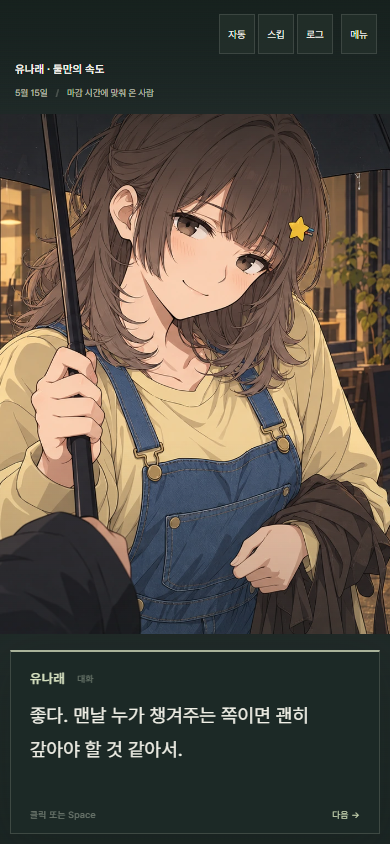
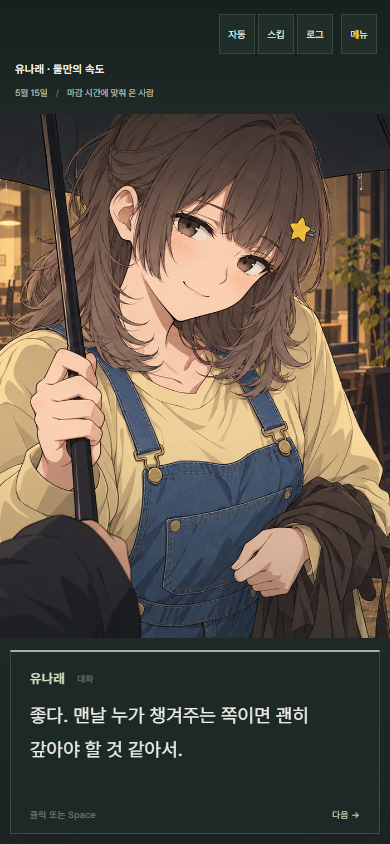
fix: keep mobile cutscene and dialogue in separate grid rows

diff --git a/src/components/Game.tsx b/src/components/Game.tsx
@@ -20,8 +20,6 @@ export function Game() {
   const stage = scene ? presentation(scene, path) : null
   const [menu, setMenu] = useState<Menu>('none')
   const [returnToTitle, setReturnToTitle] = useState(false)
-  const stageRef = useRef<HTMLElement>(null)
-  const dialogueRef = useRef<HTMLButtonElement>(null)
   const isChoice = node?.type === 'choice'
   const tw = useTypewriter(node && node.type !== 'choice' ? node.text : '', `${sceneId}:${nodeIndex}`, settings.textSpeed)
   const seenKey = `${STORY_VERSION}:${sceneId}:${nodeIndex}`
@@ -36,15 +34,6 @@ export function Game() {
     if (ended || menu !== 'none' || returnToTitle || isChoice) return
     if (tw.done) game.advance(); else tw.finish()
   }
-  useEffect(() => {
-    const box=dialogueRef.current
-    if(!box)return
-    const measure=()=>stageRef.current?.style.setProperty('--dialogue-height',`${box.offsetHeight}px`)
-    measure()
-    const observer=new ResizeObserver(measure)
-    observer.observe(box)
-    return ()=>observer.disconnect()
-  },[isChoice,uiHidden,settings.fontSize])
   useEffect(() => {
     wasSeen.current = useGame.getState().seen.has(seenKey)
     if (!node || node.type === 'choice') return
@@ -107,7 +96,7 @@ export function Game() {
   const focusChar = speaker && speaker !== 'protagonist' ? speaker : null
   const sprites = Object.entries(stage?.sprites ?? {})
   const choicePrompt = [...path].reverse().map(i => scene.nodes[i]).find(n => n.type === 'narration')
-  return <main ref={stageRef} className={`game-stage ${cg ? 'has-cg' : ''}`} data-time={bgTime(stage?.mood)} data-hidden={uiHidden} style={{'--cg-focus':cg?.mobile_focus??'50% 50%'} as React.CSSProperties}>
+  return <main className={`game-stage ${cg ? 'has-cg' : ''}`} data-time={bgTime(stage?.mood)} data-hidden={uiHidden} style={{'--cg-focus':cg?.mobile_focus??'50% 50%'} as React.CSSProperties}>
     <SmartImage key={cg?.file ?? `${background}:${bgTime(stage?.mood)}`}
       src={assetUrl(cg ? ART_ROOT + cg.file : backgroundAsset(background, stage?.mood))}
       fallbackSrc={assetUrl('assets/art-v2/campus.webp')} alt={cg?.title ?? '캠퍼스 풍경'} className={`stage-background ${cg ? 'cg-art' : ''}`} />
@@ -125,7 +114,7 @@ export function Game() {
           <button onClick={() => setMenu('main')} aria-label="게임 메뉴 열기">메뉴 <span aria-hidden="true">☰</span></button>
         </nav>
       </header>
-      {!isChoice ? <button ref={dialogueRef} className={`dialogue ${speaker ? '' : 'narration'}`} onClick={advance} aria-label="대사를 마치거나 다음으로 진행">
+      {!isChoice ? <button className={`dialogue ${speaker ? '' : 'narration'}`} onClick={advance} aria-label="대사를 마치거나 다음으로 진행">
         <span className="speaker-name">{speakerName || '과방 너머 봄'}<span>{speakerName ? '대화' : '이야기'}</span></span>
         <span className="dialogue-text" style={{ fontSize: `${settings.fontSize}px` }}>{tw.shown}</span>
         <span className="dialogue-footer"><span>{tw.done ? '클릭 또는 Space' : '클릭하면 전체 보기'}</span><span aria-hidden="true">{tw.done ? '다음 →' : '· · ·'}</span></span>

diff --git a/src/index.css b/src/index.css
@@ -52,8 +52,11 @@ button { touch-action:manipulation; }
 .game-stage { position:relative; isolation:isolate; width:100%; height:100%; overflow:hidden; background:#242e2c; color:#f4f3eb; }
 .stage-background { position:absolute; inset:0; width:100%; height:100%; object-fit:cover; animation:fade-in .45s ease-out; }
 .stage-background.cg-art { object-fit:contain; background:#222b28; }
-.has-cg .stage-background { top:80px; height:calc(100% - var(--dialogue-height,210px) - 115px); }
-.has-cg[data-hidden=true] .stage-background { top:0; height:100%; }
+.has-cg { display:grid; grid-template-columns:minmax(0,1fr); grid-template-rows:80px minmax(0,1fr) auto; }
+.has-cg .stage-background { position:relative; inset:auto; grid-row:2; min-height:0; min-width:0; width:100%; height:100%; }
+.has-cg .dialogue { position:relative; grid-row:3; left:auto; right:auto; bottom:auto; margin:12px 6% 24px; }
+.has-cg[data-hidden=true] { display:block; }
+.has-cg[data-hidden=true] .stage-background.cg-art { position:absolute; inset:0; height:100%; object-fit:contain; object-position:center; }
 .game-stage[data-time=evening]:not(.has-cg) .stage-background { filter:sepia(.13) saturate(.82); }
 .stage-shade { position:absolute; inset:0; background:linear-gradient(180deg,#111b1a91 0%,transparent 24%,transparent 52%,#111b1a80 100%); pointer-events:none; z-index:1; }
 .stage-character { position:absolute; z-index:2; height:85%; width:auto; bottom:2%; pointer-events:none; transition:filter .22s; filter:drop-shadow(0 6px 8px #10181820); }
@@ -206,8 +209,9 @@ button { touch-action:manipulation; }
  .gallery-grid { gap:20px; }
 }
 @media(max-width:480px) {
- .has-cg .stage-background.cg-art { top:114px; height:calc(100% - var(--dialogue-height,210px) - 140px); object-fit:cover; object-position:var(--cg-focus,50% 50%); }
- .has-cg[data-hidden=true] .stage-background.cg-art { top:0; height:100%; object-fit:contain; object-position:center; }
+ .has-cg { grid-template-rows:114px minmax(0,1fr) auto; }
+ .has-cg .stage-background.cg-art { object-fit:cover; object-position:var(--cg-focus,50% 50%); }
+ .has-cg .dialogue { margin:12px 10px max(10px,env(safe-area-inset-bottom)); }
  .title-hero { display:flex; flex-direction:column; align-items:stretch; gap:0; position:relative; padding-top:24px; min-height:0; }
  .title-copy { position:relative; padding-top:8px; }
  .title-copy .eyebrow { font-size:9px; }

diff --git a/e2e/game.pw.ts b/e2e/game.pw.ts
@@ -42,8 +42,10 @@ async function finish(page:Page,route:0|1,preference=0) {
       await expect(page.locator('.dialogue-footer')).toContainText('클릭 또는 Space')
       await page.screenshot({path:`test-results/cg-route-${route}-desktop.png`})
       await page.setViewportSize({width:390,height:844})
-      const art=await page.locator('.cg-art').boundingBox(),dialogue=await page.locator('.dialogue').boundingBox()
-      expect(art!.y+art!.height).toBeLessThanOrEqual(dialogue!.y)
+      await expect.poll(async()=>{
+        const art=await page.locator('.cg-art').boundingBox(),dialogue=await page.locator('.dialogue').boundingBox()
+        return art!.y+art!.height-dialogue!.y
+      }).toBeLessThanOrEqual(0)
       await page.screenshot({path:`test-results/cg-route-${route}-mobile.png`})
       await page.setViewportSize({width:1440,height:900})
       captured=true
